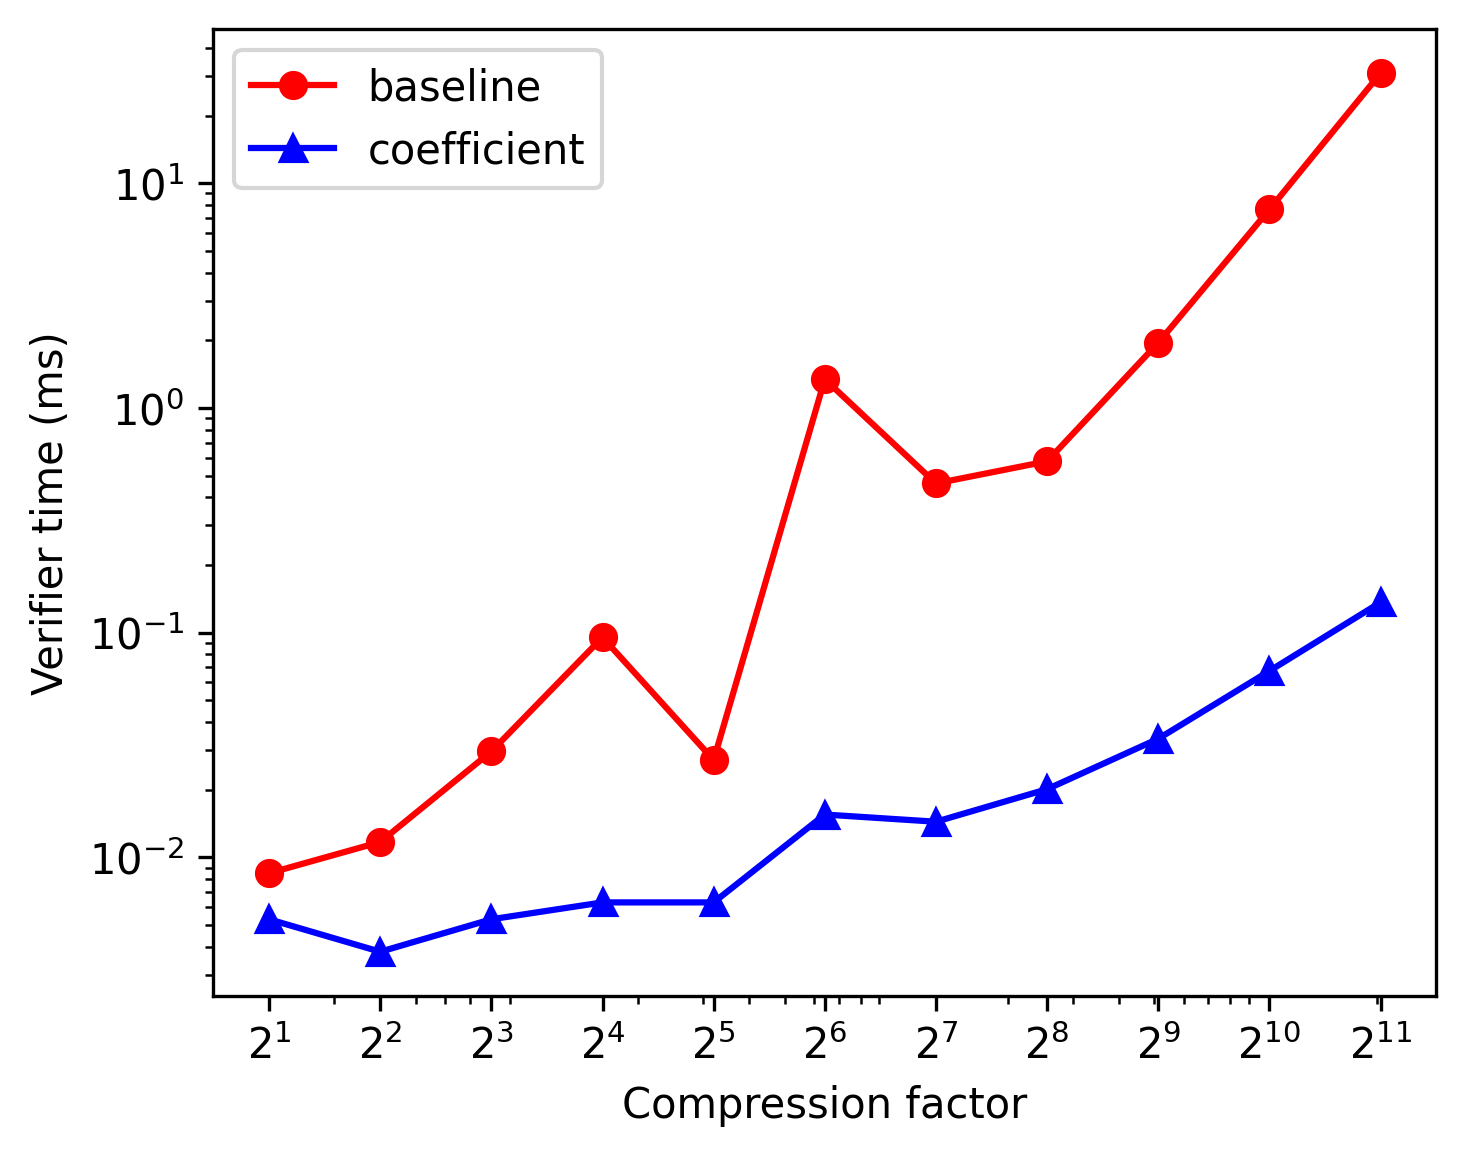
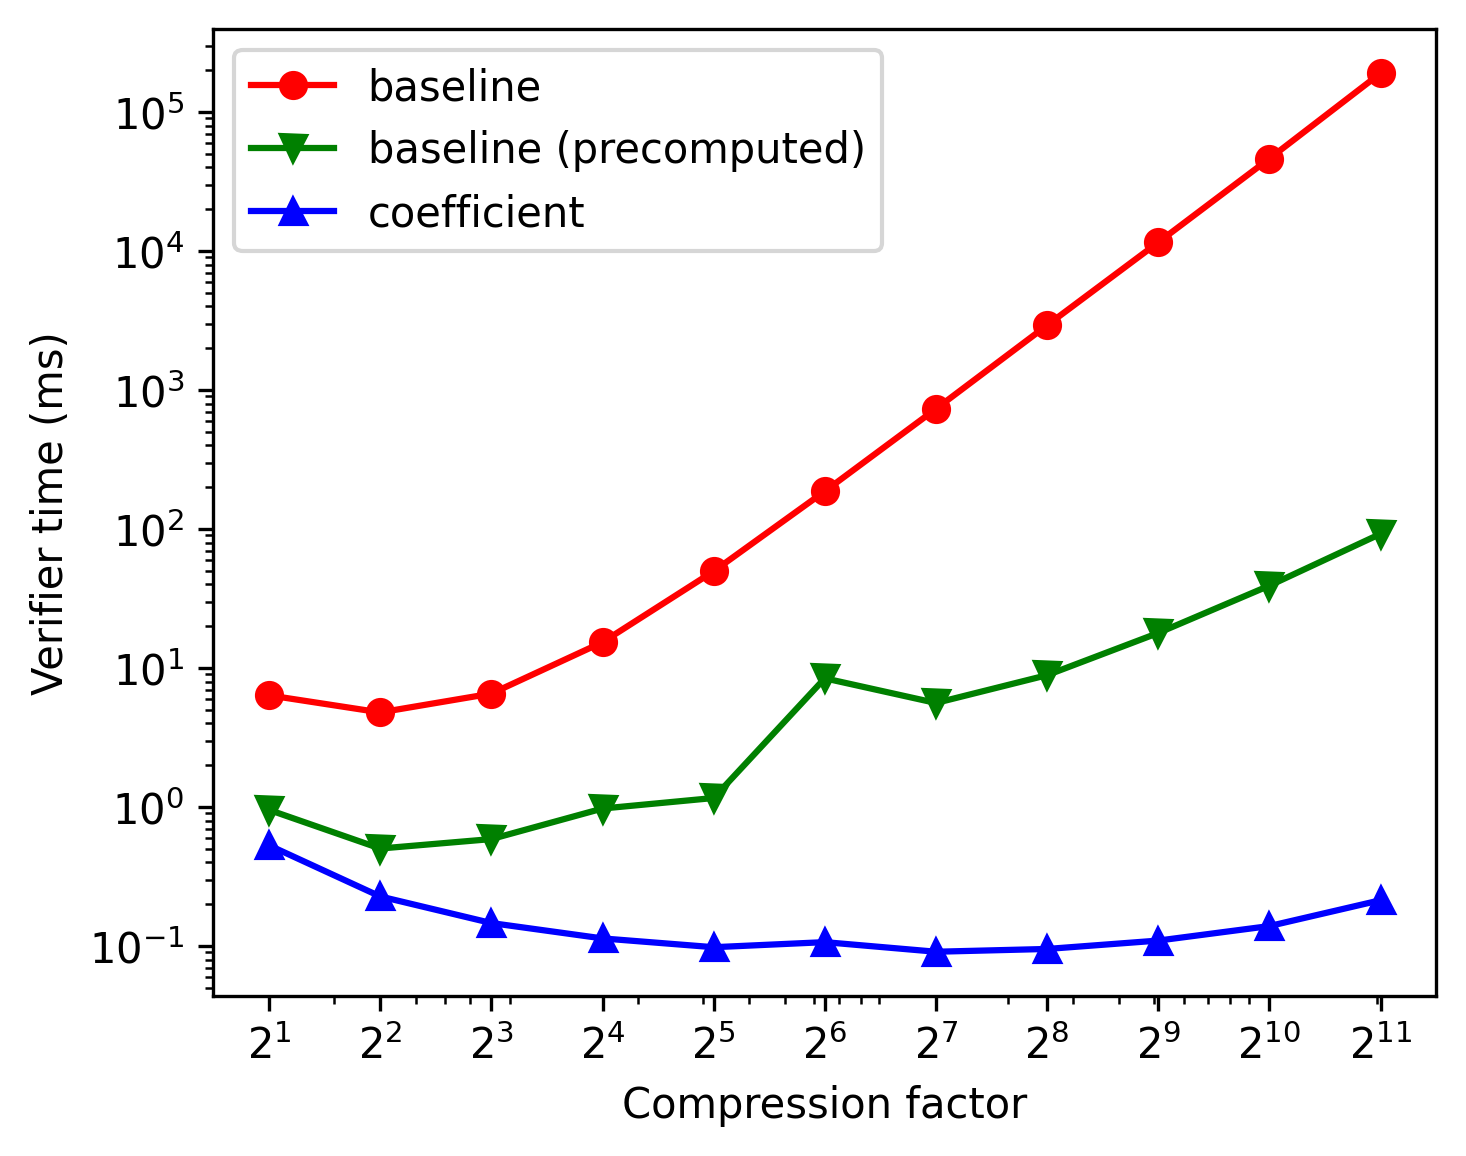
feat: add compression process into FLIOP 2PC

diff --git a/experiments/two_party_computation.hpp b/experiments/two_party_computation.hpp
@@ -260,6 +260,11 @@ FLIOPMeasurement TwoPC<Int>::FLIOP(const size_t seed, const size_t inputLength, 
     std::memset(op0.data(), 1, inputLength * sizeof(Int));
     std::memset(op1.data(), 1, inputLength * sizeof(Int));
 
+    std::vector<Int> verOp0(inputLength);
+    std::vector<Int> verOp1(inputLength);
+    std::memset(verOp0.data(), 1, inputLength * sizeof(Int));
+    std::memset(verOp1.data(), 1, inputLength * sizeof(Int));
+
     bool isValid = true;
     Int out = InnerProductCircuit<Int>::Forward(op0.data(), op1.data(), inputLength);
 
@@ -307,24 +312,68 @@ FLIOPMeasurement TwoPC<Int>::FLIOP(const size_t seed, const size_t inputLength, 
         isValid = isValid && (out == interactiveProofs[i].GetQueryAnswer(queries[0]));
         out = interactiveProofs[i].GetQueryAnswer(queries[1]);
 
+        // Compressing
+        const size_t nPoly0 = ceil(verOp0.size() / (double)compressFactor);
+        Int* const resizedInput0 = new Int[nPoly0 * compressFactor];
+        std::memset(resizedInput0, 0, (nPoly0 * compressFactor) * sizeof(Int));
+        std::memcpy(resizedInput0, verOp0.data(), verOp0.size() * sizeof(Int));
+        std::vector<Polynomial<Int>> poly0s;
+        poly0s.reserve(nPoly0);
+        for (size_t j = 0; j < nPoly0; ++j)
+        {
+            poly0s.emplace_back(
+                Polynomial<Int>::LagrangeInterpolation(resizedInput0 + compressFactor * j, compressFactor));
+        }
+        delete[] resizedInput0;
+
+        std::vector<Int> newOp0;
+        newOp0.reserve(nPoly0);
+        for (size_t j = 0; j < nPoly0; ++j)
+        {
+            newOp0.push_back(poly0s[j].Evaluate(randoms[i]));
+        }
+        verOp0 = newOp0;
+
+        const size_t nPoly1 = ceil(verOp1.size() / (double)compressFactor);
+        Int* const resizedInput1 = new Int[nPoly1 * compressFactor];
+        std::memset(resizedInput1, 0, (nPoly1 * compressFactor) * sizeof(Int));
+        std::memcpy(resizedInput1, verOp1.data(), verOp1.size() * sizeof(Int));
+        std::vector<Polynomial<Int>> poly1s;
+        poly1s.reserve(nPoly1);
+        for (size_t j = 0; j < nPoly1; ++j)
+        {
+            poly1s.emplace_back(
+                Polynomial<Int>::LagrangeInterpolation(resizedInput1 + compressFactor * j, compressFactor));
+        }
+        delete[] resizedInput1;
+
+        std::vector<Int> newOp1;
+        newOp1.reserve(nPoly1);
+        for (size_t j = 0; j < nPoly1; ++j)
+        {
+            newOp1.push_back(poly1s[j].Evaluate(randoms[i]));
+        }
+        verOp1 = newOp1;
+
         totalQueryComplexity += 2;
     }
 
-    std::vector<Query<Int>> queries =
-        InnerProductCircuit<Int>::MakeQuery(Int::GenerateRandom(), op0.size(), op0.size());
-    const size_t nInputQueriesHalf = (queries.size() - 2u) / 2u;
-    Int gR((uint64_t)0);
-    for (size_t i = 0; i < nInputQueriesHalf; ++i)
-    {
-        gR += finalProof.GetQueryAnswer(queries[i]) * finalProof.GetQueryAnswer(queries[i + nInputQueriesHalf]);
-    }
-    isValid = isValid && (finalProof.GetQueryAnswer(queries[queries.size() - 2u]) == gR) &&
-              (finalProof.GetQueryAnswer(queries[queries.size() - 1u]) == out);
+    Int finalVerifierRandom = Int::GenerateRandom();
+    std::vector<Query<Int>> queries = InnerProductCircuit<Int>::MakeQuery(finalVerifierRandom, op0.size(), op0.size());
+    
+    std::vector<Int> finalProverRandoms = finalProof.GetRandoms(2);
+    verOp0.insert(verOp0.begin(), finalProverRandoms[0]);
+    verOp1.insert(verOp1.begin(), finalProverRandoms[1]);
+    Polynomial<Int> finalOp0 = Polynomial<Int>::LagrangeInterpolation(verOp0.data(), verOp0.size());
+    Polynomial<Int> finalOp1 = Polynomial<Int>::LagrangeInterpolation(verOp1.data(), verOp1.size());
+    Int gR = finalOp0.Evaluate(finalVerifierRandom) * finalOp1.Evaluate(finalVerifierRandom);
+    isValid = isValid && (finalProof.GetQueryAnswer(queries[queries.size() - 2]) == gR) &&
+              (finalProof.GetQueryAnswer(queries[queries.size() - 1]) == out);
 
     end = std::chrono::high_resolution_clock::now();
     double verifierTime = std::chrono::duration_cast<std::chrono::nanoseconds>(end - start).count();
 
-    totalQueryComplexity += queries.size();
+    totalQueryComplexity += 2;
 
     return FLIOPMeasurement(totalProofSize, totalQueryComplexity, proverTime * 1e-6, verifierTime * 1e-6,
                             LANTime * 1e-6, WANTime * 1e-6, isValid);
@@ -340,6 +389,11 @@ FLIOPMeasurement TwoPC<Int>::FLIOPWithPrecompute(const size_t seed, const size_t
     std::vector<Int> op1(inputLength);
     std::memset(op0.data(), 1, inputLength * sizeof(Int));
     std::memset(op1.data(), 1, inputLength * sizeof(Int));
+
+    std::vector<Int> verOp0(inputLength);
+    std::vector<Int> verOp1(inputLength);
+    std::memset(verOp0.data(), 1, inputLength * sizeof(Int));
+    std::memset(verOp1.data(), 1, inputLength * sizeof(Int));
 
     bool isValid = true;
     Int out = InnerProductCircuit<Int>::Forward(op0.data(), op1.data(), inputLength);
@@ -390,24 +444,69 @@ FLIOPMeasurement TwoPC<Int>::FLIOPWithPrecompute(const size_t seed, const size_t
         isValid = isValid && (out == interactiveProofs[i].GetQueryAnswer(queries[0]));
         out = interactiveProofs[i].GetQueryAnswer(queries[1]);
 
+        // Compressing
+        const size_t nPoly0 = ceil(verOp0.size() / (double)compressFactor);
+        Int* const resizedInput0 = new Int[nPoly0 * compressFactor];
+        std::memset(resizedInput0, 0, (nPoly0 * compressFactor) * sizeof(Int));
+        std::memcpy(resizedInput0, verOp0.data(), verOp0.size() * sizeof(Int));
+        std::vector<Polynomial<Int>> poly0s;
+        poly0s.reserve(nPoly0);
+        for (size_t j = 0; j < nPoly0; ++j)
+        {
+            poly0s.emplace_back(
+                Polynomial<Int>::VandermondeInterpolation(resizedInput0 + compressFactor * j, compressFactor, evalToCoeff));
+        }
+        delete[] resizedInput0;
+
+        std::vector<Int> newOp0;
+        newOp0.reserve(nPoly0);
+        for (size_t j = 0; j < nPoly0; ++j)
+        {
+            newOp0.push_back(poly0s[j].Evaluate(randoms[i]));
+        }
+        verOp0 = newOp0;
+
+        const size_t nPoly1 = ceil(verOp1.size() / (double)compressFactor);
+        Int* const resizedInput1 = new Int[nPoly1 * compressFactor];
+        std::memset(resizedInput1, 0, (nPoly1 * compressFactor) * sizeof(Int));
+        std::memcpy(resizedInput1, verOp1.data(), verOp1.size() * sizeof(Int));
+        std::vector<Polynomial<Int>> poly1s;
+        poly1s.reserve(nPoly1);
+        for (size_t j = 0; j < nPoly1; ++j)
+        {
+            poly1s.emplace_back(Polynomial<Int>::VandermondeInterpolation(resizedInput1 + compressFactor * j,
+                                                                          compressFactor, evalToCoeff));
+        }
+        delete[] resizedInput1;
+
+        std::vector<Int> newOp1;
+        newOp1.reserve(nPoly1);
+        for (size_t j = 0; j < nPoly1; ++j)
+        {
+            newOp1.push_back(poly1s[j].Evaluate(randoms[i]));
+        }
+        verOp1 = newOp1;
+
         totalQueryComplexity += 2;
     }
 
-    std::vector<Query<Int>> queries =
-        InnerProductCircuit<Int>::MakeQuery(Int::GenerateRandom(), op0.size(), op0.size());
-    const size_t nInputQueriesHalf = (queries.size() - 2u) / 2u;
-    Int gR((uint64_t)0);
-    for (size_t i = 0; i < nInputQueriesHalf; ++i)
-    {
-        gR += finalProof.GetQueryAnswer(queries[i]) * finalProof.GetQueryAnswer(queries[i + nInputQueriesHalf]);
-    }
-    isValid = isValid && (finalProof.GetQueryAnswer(queries[queries.size() - 2u]) == gR) &&
-              (finalProof.GetQueryAnswer(queries[queries.size() - 1u]) == out);
+    Int finalVerifierRandom = Int::GenerateRandom();
+    std::vector<Query<Int>> queries = InnerProductCircuit<Int>::MakeQuery(finalVerifierRandom, op0.size(), op0.size());
+
+    std::vector<Int> finalProverRandoms = finalProof.GetRandoms(2);
+    verOp0.insert(verOp0.begin(), finalProverRandoms[0]);
+    verOp1.insert(verOp1.begin(), finalProverRandoms[1]);
+    SquareMatrix<Int> finalVan = SquareMatrix<Int>::GetVandermondeInverse(verOp0.size());
+    Polynomial<Int> finalOp0 = Polynomial<Int>::VandermondeInterpolation(verOp0.data(), verOp0.size(), finalVan);
+    Polynomial<Int> finalOp1 = Polynomial<Int>::VandermondeInterpolation(verOp1.data(), verOp1.size(), finalVan);
+    Int gR = finalOp0.Evaluate(finalVerifierRandom) * finalOp1.Evaluate(finalVerifierRandom);
+    isValid = isValid && (finalProof.GetQueryAnswer(queries[queries.size() - 2]) == gR) &&
+              (finalProof.GetQueryAnswer(queries[queries.size() - 1]) == out);
 
     end = std::chrono::high_resolution_clock::now();
     double verifierTime = std::chrono::duration_cast<std::chrono::nanoseconds>(end - start).count();
 
-    totalQueryComplexity += queries.size();
+    totalQueryComplexity += 2;
 
     return FLIOPMeasurement(totalProofSize, totalQueryComplexity, proverTime * 1e-6, verifierTime * 1e-6,
                             LANTime * 1e-6, WANTime * 1e-6, isValid);
@@ -422,6 +521,11 @@ FLIOPMeasurement TwoPC<Int>::FLIOPCoefficient(const size_t seed, const size_t in
     std::vector<Int> op1(inputLength);
     std::memset(op0.data(), 1, inputLength * sizeof(Int));
     std::memset(op1.data(), 1, inputLength * sizeof(Int));
+
+    std::vector<Int> verOp0(inputLength);
+    std::vector<Int> verOp1(inputLength);
+    std::memset(verOp0.data(), 1, inputLength * sizeof(Int));
+    std::memset(verOp1.data(), 1, inputLength * sizeof(Int));
 
     bool isValid = true;
     Int out = InnerProductCircuit<Int>::Forward(op0.data(), op1.data(), inputLength);
@@ -471,20 +575,69 @@ FLIOPMeasurement TwoPC<Int>::FLIOPCoefficient(const size_t seed, const size_t in
         isValid = isValid && (out == interactiveProofs[i].GetQueryAnswer(queries[0]));
         out = interactiveProofs[i].GetQueryAnswer(queries[1]);
 
+        // Compressing
+        const size_t nPoly0 = ceil(verOp0.size() / (double)compressFactor);
+        Int* const resizedInput0 = new Int[nPoly0 * compressFactor];
+        std::memset(resizedInput0, 0, (nPoly0 * compressFactor) * sizeof(Int));
+        std::memcpy(resizedInput0, verOp0.data(), verOp0.size() * sizeof(Int));
+        std::vector<Polynomial<Int>> poly0s;
+        poly0s.reserve(nPoly0);
+        for (size_t j = 0; j < nPoly0; ++j)
+        {
+            poly0s.emplace_back(resizedInput0 + compressFactor * j, compressFactor, true);
+        }
+        delete[] resizedInput0;
+
+        std::vector<Int> newOp0;
+        newOp0.reserve(nPoly0);
+        for (size_t j = 0; j < nPoly0; ++j)
+        {
+            newOp0.push_back(poly0s[j].Evaluate(randoms[i]));
+        }
+        verOp0 = newOp0;
+
+        const size_t nPoly1 = ceil(verOp1.size() / (double)compressFactor);
+        Int* const resizedInput1 = new Int[nPoly1 * compressFactor];
+        std::memset(resizedInput1, 0, (nPoly1 * compressFactor) * sizeof(Int));
+        std::memcpy(resizedInput1, verOp1.data(), verOp1.size() * sizeof(Int));
+        std::vector<Polynomial<Int>> poly1s;
+        poly1s.reserve(nPoly1);
+        for (size_t j = 0; j < nPoly1; ++j)
+        {
+            Int::Reverse(resizedInput1 + compressFactor * j, resizedInput1 + compressFactor * j + compressFactor - 1);
+            poly1s.emplace_back(resizedInput1 + compressFactor * j, compressFactor, true);
+        }
+        delete[] resizedInput1;
+
+        std::vector<Int> newOp1;
+        newOp1.reserve(nPoly1);
+        for (size_t j = 0; j < nPoly1; ++j)
+        {
+            newOp1.push_back(poly1s[j].Evaluate(randoms[i]));
+        }
+        verOp1 = newOp1;
+
         totalQueryComplexity += 2;
     }
 
+    Int finalVerifierRandom = Int::GenerateRandom();
     std::vector<Query<Int>> queries =
-        InnerProductCircuit<Int>::MakeCoefficientQuery(Int::GenerateRandom(), op0.size(), 1);
-    isValid = isValid &&
-              (finalProof.GetQueryAnswer(queries[0]) * finalProof.GetQueryAnswer(queries[1]) ==
-               finalProof.GetQueryAnswer(queries[2])) &&
+        InnerProductCircuit<Int>::MakeCoefficientQuery(finalVerifierRandom, op0.size(), 1);
+
+    std::vector<Int> finalProverRandoms = finalProof.GetRandoms(2);
+    verOp0.insert(verOp0.begin(), finalProverRandoms[0]);
+    verOp1.insert(verOp1.begin(), finalProverRandoms[1]);
+    std::reverse(verOp1.begin() + 1, verOp1.end());
+    Polynomial<Int> finalOp0(verOp0.data(), verOp0.size(), true);
+    Polynomial<Int> finalOp1(verOp1.data(), verOp1.size(), true);
+    Int gR = finalOp0.Evaluate(finalVerifierRandom) * finalOp1.Evaluate(finalVerifierRandom);
+    isValid = isValid && (finalProof.GetQueryAnswer(queries[2]) == gR) &&
               (finalProof.GetQueryAnswer(queries[3]) == out);
 
     end = std::chrono::high_resolution_clock::now();
     double verifierTime = std::chrono::duration_cast<std::chrono::nanoseconds>(end - start).count();
 
-    totalQueryComplexity += 4;
+    totalQueryComplexity += 2;
 
     return FLIOPMeasurement(totalProofSize, totalQueryComplexity, proverTime * 1e-6, verifierTime * 1e-6,
                             LANTime * 1e-6, WANTime * 1e-6, isValid);
@@ -513,7 +666,9 @@ template <typename Int> void TwoPC<Int>::ExperimentFLIOP()
         coefficientVersion[j] = TwoPC<Int>::FLIOPCoefficient(seed, inputLength, i);
         if (!baseline[j].isVaild || !precomputation[j].isVaild || !coefficientVersion[j].isVaild)
         {
-            std::cout << "Invalid!" << std::endl;
+            std::cerr << "baseline / lambda : " << i << " / Valid : " << baseline[j].isVaild << std::endl;
+            std::cerr << "precomputation / lambda : " << i << " / Valid : " << precomputation[j].isVaild << std::endl;
+            std::cerr << "coefficientVersion / lambda : " << i << " / Valid : " << coefficientVersion[j].isVaild << std::endl;
             return;
         }
         ++j;

diff --git a/main.cpp b/main.cpp
@@ -1,12 +1,11 @@
 #include "math\mpint64.hpp"
-#include "experiments\multi_party_computation.hpp"
+#include "experiments\two_party_computation.hpp"
 
 #include "math\sha512.hpp"
 
 int main(int argc, char* argv[])
 {
-    MPC<Mpint64> mpc(23571113, 65536, 64, 10);
-    mpc.FindBestFLIOPSchedule(true);
+    TwoPC<Mpint64>::ExperimentFLIOP();
     system("pause");
     return 0;
 }

diff --git a/README.md b/README.md
@@ -64,65 +64,6 @@ This project has been developed on Visual Studio CMake project and Windows 11 en
   </table>
 </div>
 
-### Finding optimal schedules in FLIOP 2PC
-
-* Total Improvement
-
-<div align="center">
-  <table>
-    <tr>
-      <th> Total Improvement in LAN </th>
-      <th> Proportion in LAN </th>
-    </tr>
-    <tr>
-      <td> <img src="./figure/optimal_schedule/lan_total.png" /> </td>
-      <td> <img src="./figure/optimal_schedule/lan_portion.png" /> </td>
-    </tr>
-    <tr>
-      <th> Total Improvement in WAN </th>
-      <th> Proportion in WAN </th>
-    </tr>
-    <tr>
-      <td> <img src="./figure/optimal_schedule/wan_total.png" /> </td>
-      <td> <img src="./figure/optimal_schedule/wan_portion.png" /> </td>
-    </tr>
-  </table>
-</div>
-
-* Optimal schedule in LAN
-
-```
-Length: 32 / Min time : 0.043880690 / Best schedule : 6 3 2
-Length: 64 / Min time : 0.049097384 / Best schedule : 5 7 2
-Length: 128 / Min time : 0.060402949 / Best schedule : 5 4 4 2
-Length: 256 / Min time : 0.080319643 / Best schedule : 6 5 5 2
-Length: 512 / Min time : 0.121041902 / Best schedule : 6 6 8 2
-Length: 1024 / Min time : 0.198241902 / Best schedule : 6 5 5 4 2
-Length: 2048 / Min time : 0.353958597 / Best schedule : 6 7 5 5 2
-Length: 4096 / Min time : 0.663364162 / Best schedule : 6 6 5 4 3 2
-Length: 8192 / Min time : 1.282280856 / Best schedule : 6 6 6 5 4 2
-Length: 16384 / Min time : 2.532403115 / Best schedule : 5 6 6 7 7 2
-Length: 32768 / Min time : 5.052508680 / Best schedule : 6 6 6 6 4 4 2
-Length: 65536 / Min time : 10.526725374 / Best schedule : 7 6 6 6 5 5 2
-```
-
-* Optimal schedule in WAN
-
-```
-Length: 32 / Min time : 40.037000000 / Best schedule : 6 3 2
-Length: 64 / Min time : 40.044900000 / Best schedule : 4 4 2 2
-Length: 128 / Min time : 40.059900000 / Best schedule : 5 4 4 2
-Length: 256 / Min time : 40.084600000 / Best schedule : 6 5 5 2
-Length: 512 / Min time : 40.127500000 / Best schedule : 6 5 3 3 2
-Length: 1024 / Min time : 40.208900000 / Best schedule : 6 5 5 4 2
-Length: 2048 / Min time : 40.369000000 / Best schedule : 6 5 3 4 3 2
-Length: 4096 / Min time : 40.680400000 / Best schedule : 6 6 5 4 3 2
-Length: 8192 / Min time : 41.303800000 / Best schedule : 6 6 5 4 3 2 2
-Length: 16384 / Min time : 42.556300000 / Best schedule : 5 6 6 4 4 3 2
-Length: 32768 / Min time : 45.081000000 / Best schedule : 6 6 6 5 4 4 2
-Length: 65536 / Min time : 50.561000000 / Best schedule : 7 6 6 5 3 3 3 2
-```
-
 ### Finding optimal schedules in FLIOP 3PC
 
 <div align="center">
